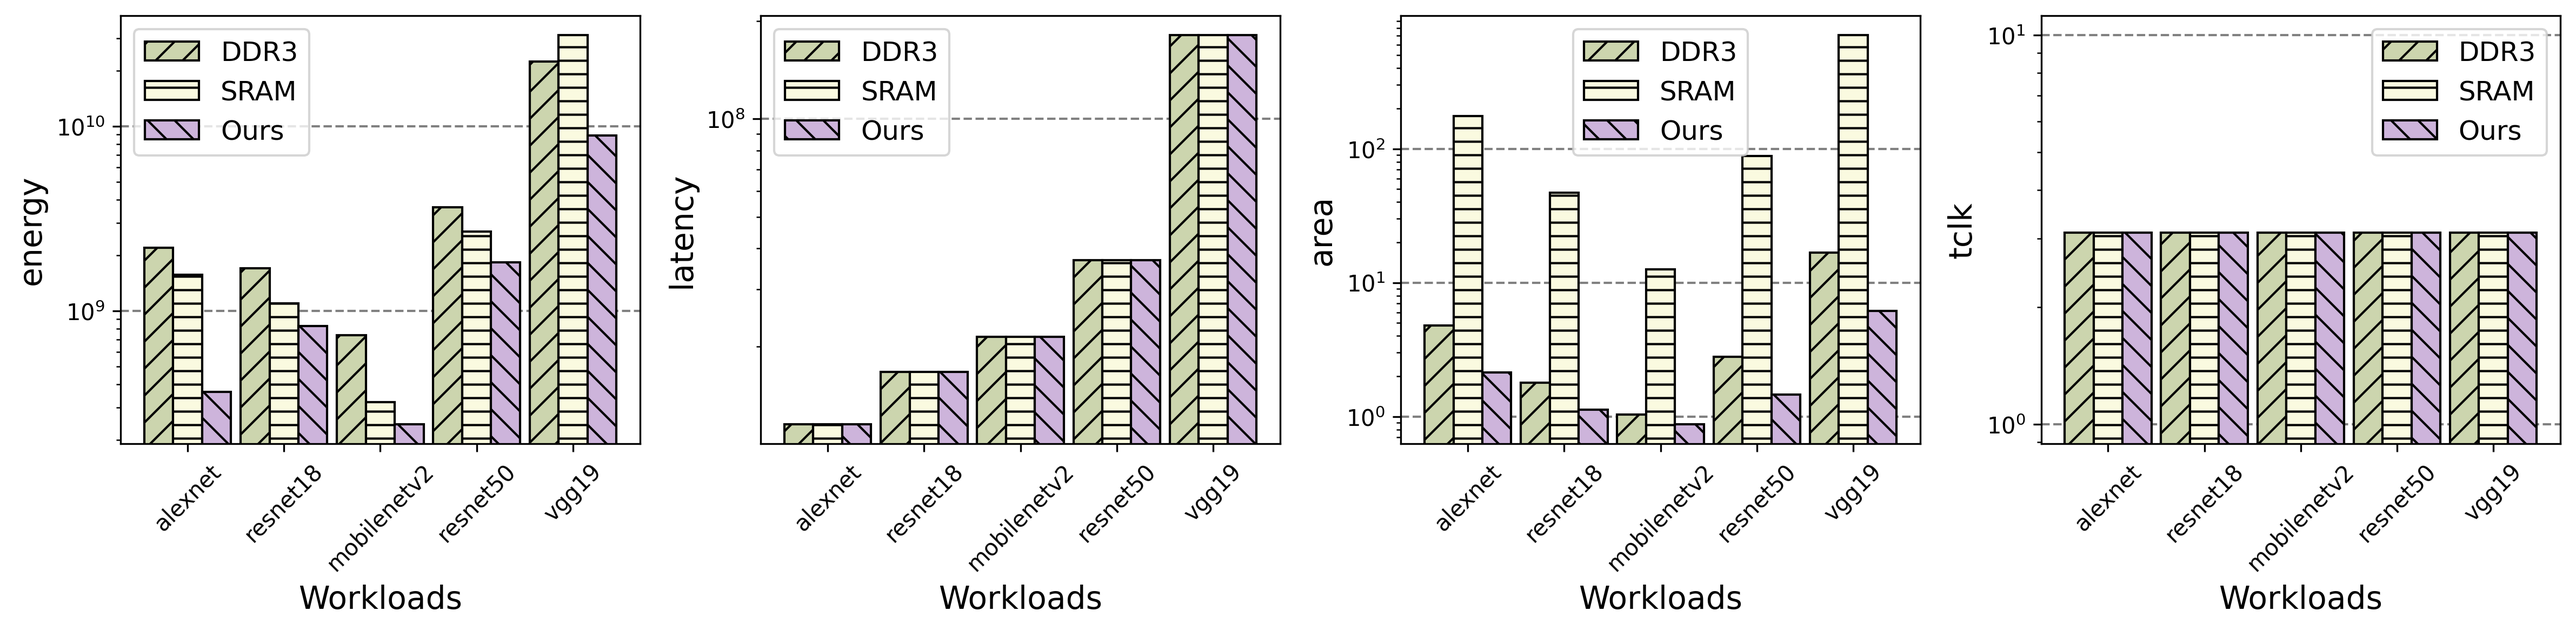
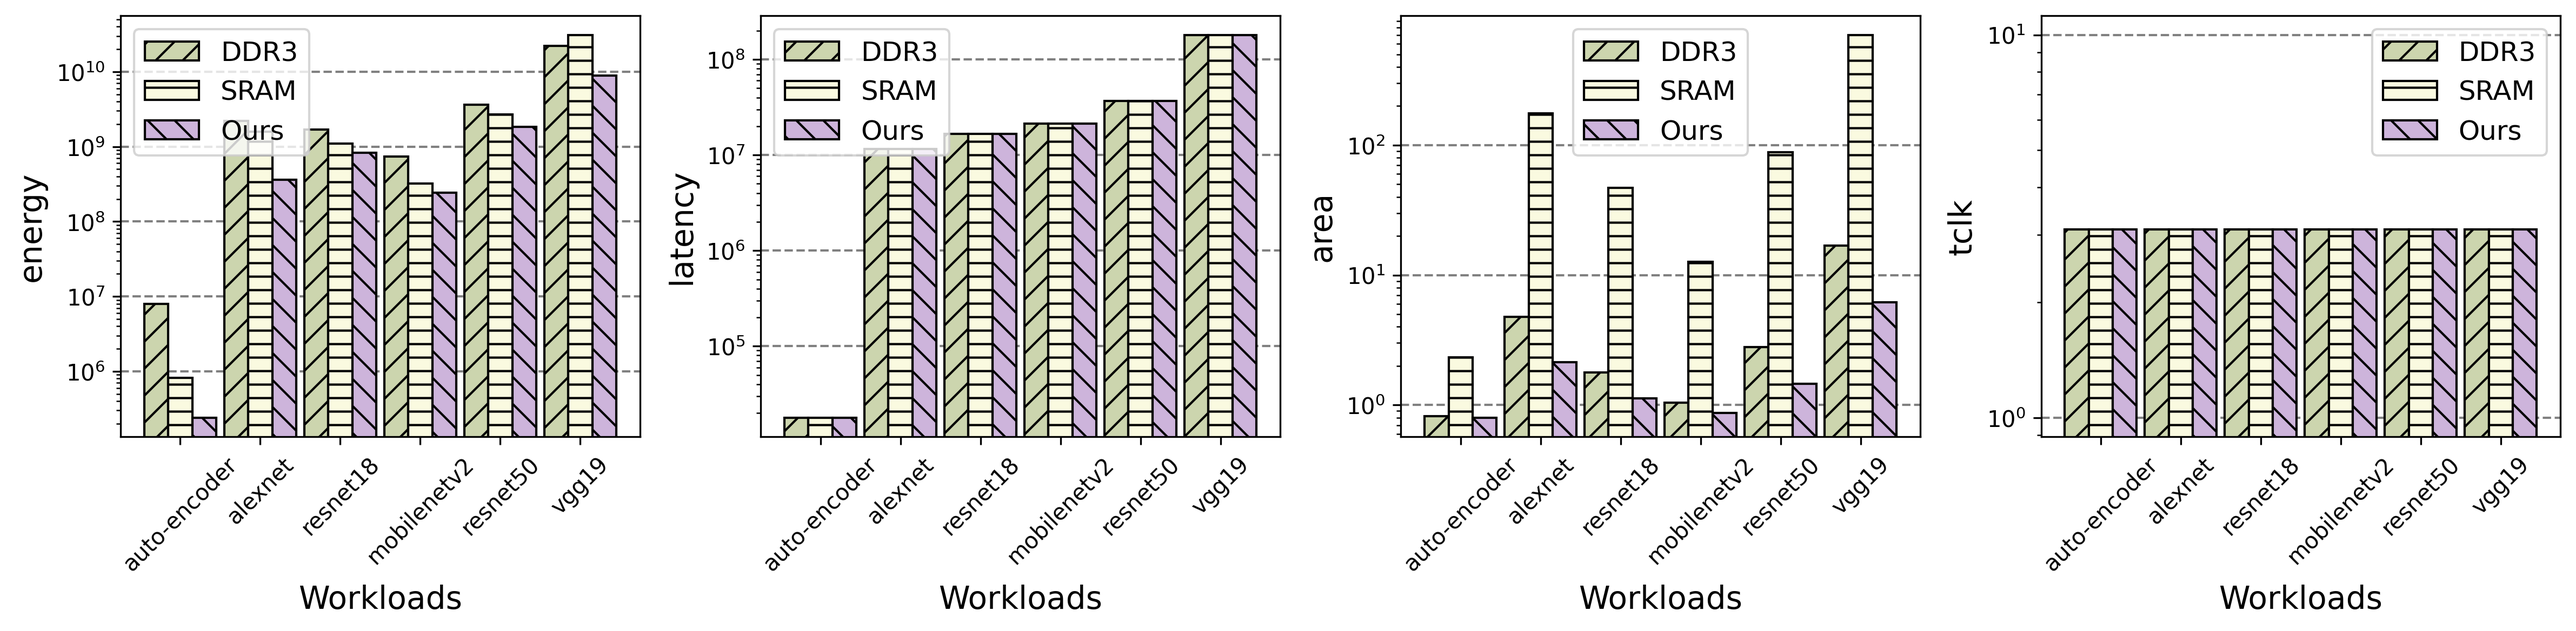
comment out simulation function

diff --git a/iscas/visualization.py b/iscas/visualization.py
@@ -300,6 +300,6 @@ if __name__ == "__main__":
     # plot_mem_comparison()
     #########################################
     # Experiment 2: zigzag evaluation result
-    zigzag_evaluation()
-    # zigzag_plot()
+    # zigzag_evaluation()
+    zigzag_plot()
     pass
